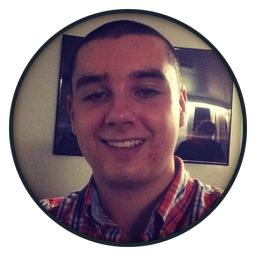
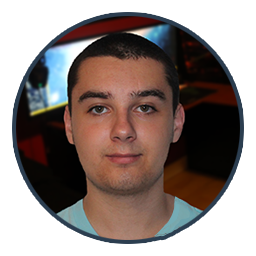
Spot the Easter egg! changed profile image (not final) Add some captions to navigation images

diff --git a/index.html b/index.html
@@ -109,6 +109,7 @@
             </div>
             <div class="row">
                 <div class="col-sm-3 portfolio-item">
+                    <h5>Tomahawk</h5>
                     <a href="#tomahawk" class="portfolio-link" data-toggle="modal">
                         <div class="caption">
                             <div class="caption-content">
@@ -119,6 +120,7 @@
                     </a>
                 </div>
                 <div class="col-sm-3 portfolio-item">
+                    <h5>OCDSB</h5>
                     <a href="#mama" class="portfolio-link" data-toggle="modal">
                         <div class="caption">
                             <div class="caption-content">
@@ -129,6 +131,7 @@
                     </a>
                 </div>
                 <div class="col-sm-3 portfolio-item">
+                    <h5>Pebble</h5>
                     <a href="#pebble" class="portfolio-link" data-toggle="modal">
                         <div class="caption">
                             <div class="caption-content">
@@ -139,6 +142,7 @@
                     </a>
                 </div>
                 <div class="col-sm-3 portfolio-item">
+                    <h5>Pebble Meetup</h5>
                     <a href="#meetup" class="portfolio-link" data-toggle="modal">
                         <div class="caption">
                             <div class="caption-content">
@@ -151,6 +155,7 @@
             </div>
             <div class="row">
                 <div class="col-sm-3 portfolio-item">
+                    <h5>Code 4 Gaming</h5>
                     <a href="#codefour" class="portfolio-link" data-toggle="modal">
                         <div class="caption">
                             <div class="caption-content">
@@ -161,6 +166,7 @@
                     </a>
                 </div>
                 <div class="col-sm-3 portfolio-item">
+                    <h5>KDCloth</h5>
                     <a href="#kdcloth" class="portfolio-link" data-toggle="modal">
                         <div class="caption">
                             <div class="caption-content">
@@ -171,6 +177,7 @@
                     </a>
                 </div>
                 <div class="col-sm-3 portfolio-item">
+                    <h5>Highschool</h5>
                     <a href="#notredame" class="portfolio-link" data-toggle="modal">
                         <div class="caption">
                             <div class="caption-content">
@@ -181,6 +188,7 @@
                     </a>
                 </div>
                 <div class="col-sm-3 portfolio-item">
+                    <h5>University</h5>
                     <a href="#uottawa" class="portfolio-link" data-toggle="modal">
                         <div class="caption">
                             <div class="caption-content">
@@ -278,6 +286,9 @@
             <div class="row">
                 <div class="col-lg-12">
                     Hosting provided by: <a target="_blank" class="link-white" href="https://www.umgardi.ca/">umgardi.ca</a>
+                </div>
+                <div class="col-lg-12">
+                    Sometime I like to implement <a target="_blank" class="link-white" href="https://en.wikipedia.org/wiki/Konami_Code">fun things</a> into my websites
                 </div>
             </div>
         </div>

diff --git a/portfolio/js/freelancer.js b/portfolio/js/freelancer.js
@@ -1,11 +1,31 @@
-/*!
- * Start Bootstrap - Freelancer Bootstrap Theme (http://startbootstrap.com)
- * Code licensed under the Apache License v2.0.
- * For details, see http://www.apache.org/licenses/LICENSE-2.0.
- */
-
-// jQuery for page scrolling feature - requires jQuery Easing plugin
 $(function () {
+
+    var konamiState = 0;
+    var konamiCode = [38, 38, 40, 40, 37, 39, 37, 39, 66, 65];
+    var timeouts = [];
+
+    var konamiEvent = function(e) {
+        if (e.which == konamiCode[konamiState]) {
+            konamiState++;
+        } else {
+            konamiState = 0;
+        }
+        if (konamiState == konamiCode.length) {
+            timeouts.forEach(function(timeout) {
+                clearTimeout(timeout);
+            });
+            document.body.style.webkitAnimationName = '';
+            console.log('KONAMIIII!!!!');
+            konamiState = 0;
+            document.body.className = 'konami';
+            timeouts.push(setTimeout(function() {
+                document.body.className = '';
+                $(window).scrollTop($(window).scrollTop() + 1);
+            }, 4010));
+        }
+    };
+
+    document.addEventListener('keydown', konamiEvent);
 
     $(".slideshow").owlCarousel({
         autoPlay: 7500,
